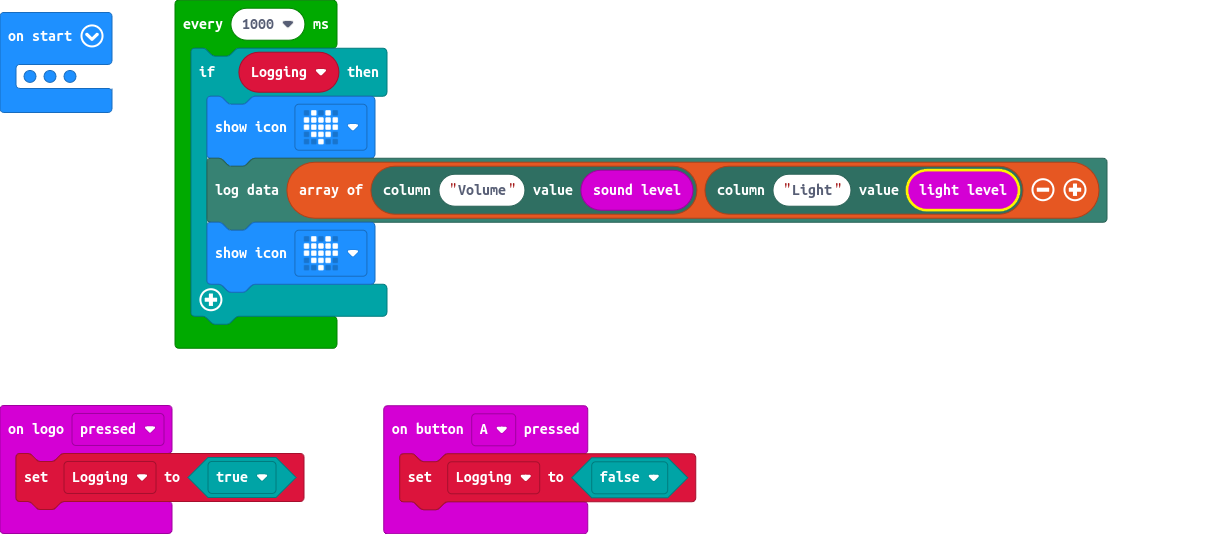
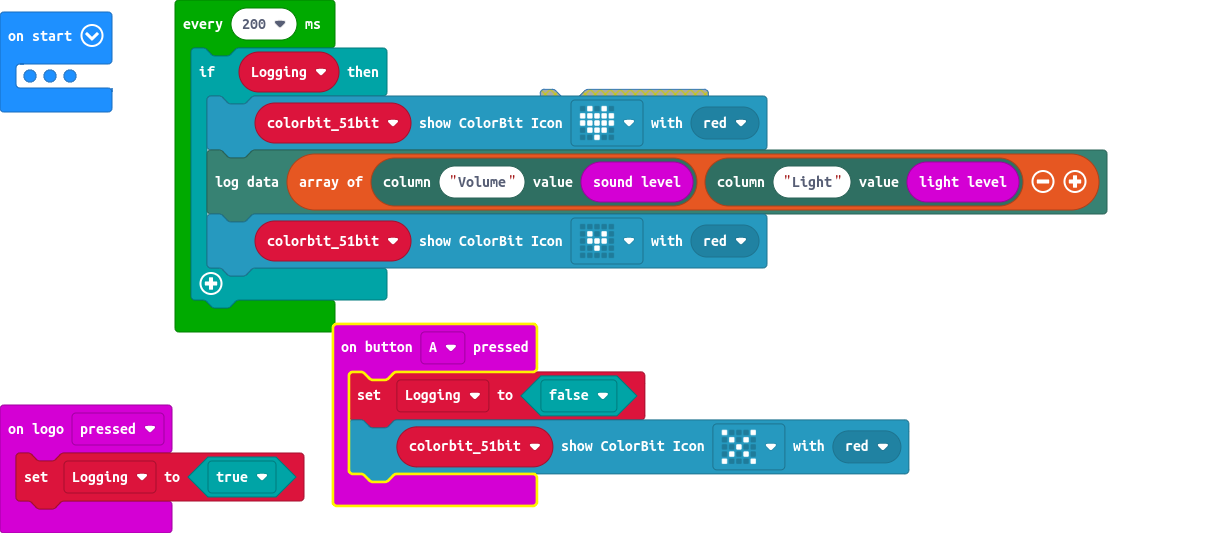
use colorbit to display log on or off

diff --git a/main.ts b/main.ts
@@ -1,20 +1,22 @@
 input.onButtonPressed(Button.A, function () {
     Logging = false
+    colorbit_51bit.showColorIcon(ColorIcon.No, colorbit.colors(BitColors.Red))
 })
 input.onLogoEvent(TouchButtonEvent.Pressed, function () {
     Logging = true
 })
 let Logging = false
-let colorbit_51bit = colorbit.initColorBit(DigitalPin.P2, BitColorMode.RGB)
+let colorbit_51bit: colorbit.Strip = null
+colorbit_51bit = colorbit.initColorBit(DigitalPin.P2, BitColorMode.RGB)
 colorbit_51bit.setBrightness(32)
 colorbit_51bit.clear()
-colorbit_51bit.showColorIcon(ColorIcon.ChristmasTree, colorbit.colors(BitColors.Green))
+colorbit_51bit.showColorIcon(ColorIcon.ChristmasTree, colorbit.colors(BitColors.Yellow))
 datalogger.setColumns(["Volume", "Light"])
 Logging = false
-loops.everyInterval(1000, function () {
+loops.everyInterval(200, function () {
     if (Logging) {
-        basic.showIcon(IconNames.Heart)
+        colorbit_51bit.showColorIcon(ColorIcon.Heart, colorbit.colors(BitColors.Red))
         datalogger.logData([datalogger.createCV("Volume", input.soundLevel()), datalogger.createCV("Light", input.lightLevel())])
-        basic.showIcon(IconNames.Heart)
+        colorbit_51bit.showColorIcon(ColorIcon.SmallHeart, colorbit.colors(BitColors.Red))
     }
 })
